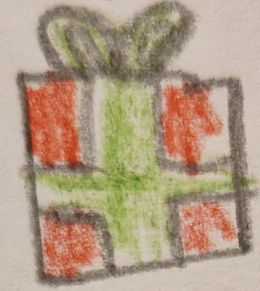
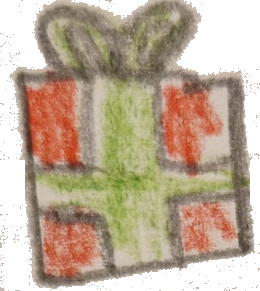
feat: new images and display of packages

Changed region(s): [[0.0, 0.0, 1.0, 1.0], [0.2769, 0.0, 0.5846, 0.0619]]

diff --git a/js/package.js b/js/package.js
@@ -8,8 +8,8 @@ class Package {
     constructor(x, y) {
         this.x = x;
         this.y = y;
-        this.width = 30;
-        this.height = 30;
+        this.width = 45;  // Increased from 30 to 45 (50% larger)
+        this.height = 45; // Increased from 30 to 45 (50% larger)
         this.velocityY = 0;
         this.collected = false;
         
@@ -23,7 +23,7 @@ class Package {
 
     update() {
         if (!this.collected) {
-            Physics.applyGravity(this);
+            Physics.applyGravity(this, true);  // Pass true to use package gravity
             this.y += this.velocityY;
         }
     }
@@ -46,25 +46,36 @@ class Package {
             // Increment the static counter when a package is collected
             Package.collectedPackagesCount++;
             
-            // Optional: You might want to update the UI here
-            this.updatePackageCountDisplay();
+            // Update the visual representation of packages
+            this.updatePackageDisplay();
         }
     }
 
-    // Method to update package count display
-    updatePackageCountDisplay() {
-        const packageCountElement = document.getElementById('package-count');
-        if (packageCountElement) {
-            packageCountElement.textContent = `Packages Collected: ${Package.collectedPackagesCount}`;
+    // Method to update package count display with gift icons
+    updatePackageDisplay() {
+        const packageDisplayElement = document.getElementById('package-display');
+        if (packageDisplayElement) {
+            // Clear previous display
+            packageDisplayElement.innerHTML = '';
+            
+            // Create and append gift icons for each collected package
+            for (let i = 0; i < Package.collectedPackagesCount; i++) {
+                const giftIcon = document.createElement('img');
+                giftIcon.src = 'images/gift.png';
+                giftIcon.style.width = '30px';  // Smaller size for display
+                giftIcon.style.height = '30px';
+                giftIcon.style.marginRight = '5px';
+                packageDisplayElement.appendChild(giftIcon);
+            }
         }
     }
 
-    // Static method to reset package count (useful for game restart)
+    // Static method to reset package count and display (useful for game restart)
     static resetPackageCount() {
         Package.collectedPackagesCount = 0;
-        const packageCountElement = document.getElementById('package-count');
-        if (packageCountElement) {
-            packageCountElement.textContent = 'Packages Collected: 0';
+        const packageDisplayElement = document.getElementById('package-display');
+        if (packageDisplayElement) {
+            packageDisplayElement.innerHTML = '';
         }
     }
 

diff --git a/js/ui.js b/js/ui.js
@@ -2,7 +2,7 @@ class UI {
     constructor() {
         // Preload images
         this.heartImage = new Image();
-        this.heartImage.src = 'images/heart.png'; // You might want to create a heart image
+        this.heartImage.src = 'images/heart.png';
         
         this.packageImage = new Image();
         this.packageImage.src = 'images/gift.png';
@@ -39,30 +39,29 @@ class UI {
         }
     }
 
-    drawPackageCount(ctx, hearts) {
-        const heartSize = 20;
-        const heartSpacing = 25;
-        const heartY = 20;
+    drawPackageCount(ctx, canvas) {
+        const packageSize = 20;
+        const packageSpacing = 25;
+        const packageY = 20;
+        const packagesCollected = Package.getPackageCount();
         
-        // Draw package icon
-        if (this.packageImage.complete && this.packageImage.naturalHeight !== 0) {
-            ctx.drawImage(
-                this.packageImage, 
-                20 + hearts * heartSpacing + 10, 
-                heartY - 5, 
-                heartSize, 
-                heartSize
-            );
+        // Position packages 100 pixels from the right edge of the canvas
+        const startX = canvas.width - 100;
+        
+        // Draw package icons for each collected package
+        for (let i = 0; i < packagesCollected; i++) {
+            const packageX = startX + i * packageSpacing;
+            
+            if (this.packageImage.complete && this.packageImage.naturalHeight !== 0) {
+                ctx.drawImage(
+                    this.packageImage, 
+                    packageX, 
+                    packageY, 
+                    packageSize, 
+                    packageSize
+                );
+            }
         }
-        
-        // Draw package count
-        ctx.fillStyle = 'black';
-        ctx.font = 'bold 16px Arial';
-        ctx.fillText(
-            `x ${Package.getPackageCount()}`, 
-            20 + hearts * heartSpacing + heartSize + 15, 
-            heartY + 15
-        );
     }
 
     drawGameOverScreen(ctx, canvas) {
@@ -89,7 +88,7 @@ class UI {
         this.drawHearts(ctx, player.hearts);
         
         // Draw package count
-        this.drawPackageCount(ctx, player.hearts);
+        this.drawPackageCount(ctx, canvas);
         
         // Draw game over screen if needed
         if (player.game && player.game.gameOver) {

diff --git a/js/physics.js b/js/physics.js
@@ -1,10 +1,15 @@
 const Physics = {
-    gravity: 0.5,
+    playerGravity: 0.5,
+    packageGravity: 0.2,  // Slower gravity for packages
     friction: 0.8,
-    terminalVelocity: 10,
+    playerTerminalVelocity: 10,
+    packageTerminalVelocity: 5,
 
-    applyGravity(entity) {
-        entity.velocityY = Math.min(entity.velocityY + this.gravity, this.terminalVelocity);
+    applyGravity(entity, isPackage = false) {
+        const gravity = isPackage ? this.packageGravity : this.playerGravity;
+        const terminalVelocity = isPackage ? this.packageTerminalVelocity : this.playerTerminalVelocity;
+        
+        entity.velocityY = Math.min(entity.velocityY + gravity, terminalVelocity);
     },
 
     applyFriction(entity) {

diff --git a/js/santa.js b/js/santa.js
@@ -3,8 +3,8 @@ class Santa {
         this.game = game;
         this.x = x;
         this.y = y;
-        this.width = 50;  // Adjusted to match potential image size
-        this.height = 50; // Adjusted to match potential image size
+        this.width = 100;  // Doubled from 50 to 100
+        this.height = 100; // Doubled from 50 to 100
         this.speed = speed || 2;
         
         // Image loading

diff --git a/resize_images.py b/resize_images.py
@@ -1,0 +1,39 @@
+from PIL import Image
+import os
+
+def resize_image(input_path, output_path, width_multiplier, height_multiplier):
+    # Open the image
+    with Image.open(input_path) as img:
+        # Get original size
+        original_width, original_height = img.size
+        
+        # Calculate new size
+        new_width = int(original_width * width_multiplier)
+        new_height = int(original_height * height_multiplier)
+        
+        # Resize the image
+        resized_img = img.resize((new_width, new_height), Image.LANCZOS)
+        
+        # Ensure the output directory exists
+        os.makedirs(os.path.dirname(output_path), exist_ok=True)
+        
+        # Save the resized image
+        resized_img.save(output_path)
+        
+        print(f"Resized {input_path}")
+        print(f"Original size: {original_width}x{original_height}")
+        print(f"New size: {new_width}x{new_height}")
+
+# Resize Santa image (2x size)
+resize_image(
+    '/users/alelin3/dev/fun/julspelet/images/santa.png', 
+    '/users/alelin3/dev/fun/julspelet/images/resized/santa.png', 
+    2, 2
+)
+
+# Resize Gift image (1.5x size)
+resize_image(
+    '/users/alelin3/dev/fun/julspelet/images/gift.png', 
+    '/users/alelin3/dev/fun/julspelet/images/resized/gift.png', 
+    1.5, 1.5
+)
